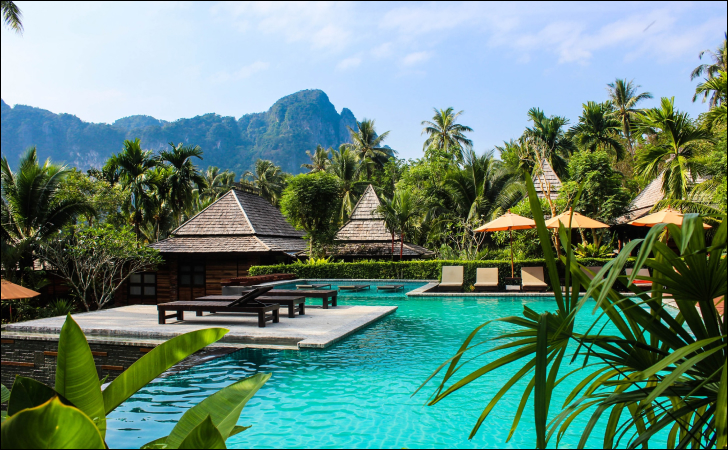
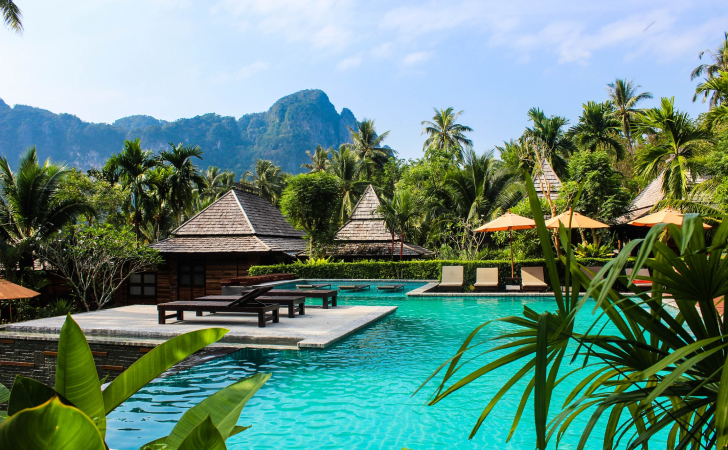
fix: slider, add new photos)

Changed region(s): [[0.0, 0.0, 1.0, 1.0], [0.0, 0.0, 0.0302, 0.0311]]

diff --git a/index.html b/index.html
@@ -147,12 +147,20 @@
                   <img src="img/slide.jpg" alt="Слайдер" />
                 </div>
                 <div class="swiper-slide">
-                  <img src="img/slide.jpg" alt="Слайдер" />
+                  <img src="img/slide-1.jpg" alt="Слайдер" />
                 </div>
                 <div class="swiper-slide">
-                  <img src="img/slide.jpg" alt="Слайдер" />
+                  <img src="img/slide-3.jpg" alt="Слайдер" />
                 </div>
-                ...
+                <div class="swiper-slide">
+                  <img src="img/slide-4.jpg" alt="Слайдер" />
+                </div>
+                <div class="swiper-slide">
+                  <img src="img/slide-5.jpg" alt="Слайдер" />
+                </div>
+                <div class="swiper-slide">
+                  <img src="img/slide-6.jpg" alt="Слайдер" />
+                </div>
               </div>
               <!-- If we need pagination -->
               <div class="swiper-pagination"></div>

diff --git a/sass/blocks/_hotel.sass b/sass/blocks/_hotel.sass
@@ -63,8 +63,11 @@
         left: 0
         background: linear-gradient(180deg, rgba(0, 122, 223, 0.48) 0%, rgba(255, 255, 255, 0.128) 100%)
         z-index: 10
-.swiper-slide
+.swiper-slide img
     outline: none
+    width: 100%
+    height: 100%
+    object-fit: cover
 .slider
     width: 728px
     position: relative
@@ -114,6 +117,7 @@
         justify-content: center
         background-color: #EC1F46
         border: none
+        cursor: pointer
         flex-shrink: 0
         color: white
         margin-top: 17px

diff --git a/css/style.css b/css/style.css
@@ -556,8 +556,11 @@ template {
   z-index: 10;
 }
 
-.swiper-slide {
+.swiper-slide img {
   outline: none;
+  width: 100%;
+  height: 100%;
+  object-fit: cover;
 }
 
 .slider {
@@ -618,6 +621,7 @@ template {
   justify-content: center;
   background-color: #EC1F46;
   border: none;
+  cursor: pointer;
   flex-shrink: 0;
   color: white;
   margin-top: 17px;

diff --git a/js/main.js b/js/main.js
@@ -1,8 +1,8 @@
 const swiper = new Swiper('.swiper-container', {
   loop: true,
+  effect: 'coverflow',
   navigation: {
     nextEl: '.slider-button--next',
     prevEl: '.slider-button--prev',
   },
-
 });
